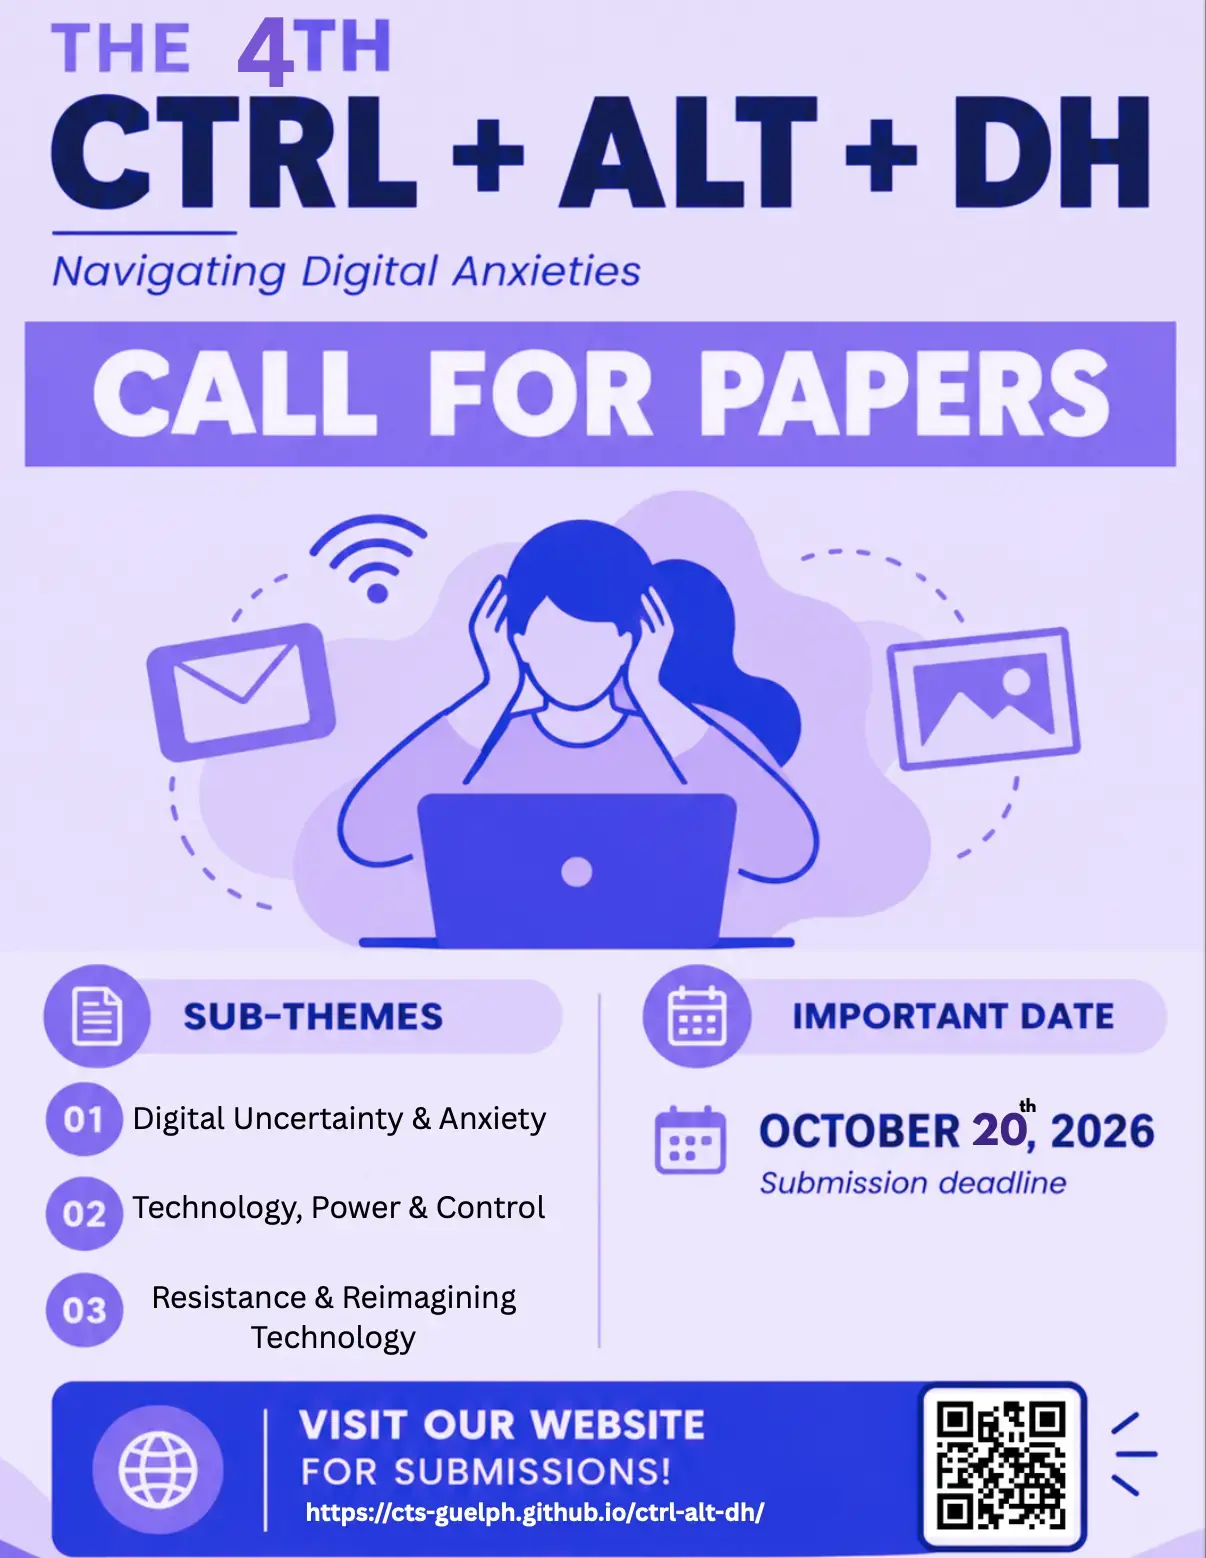
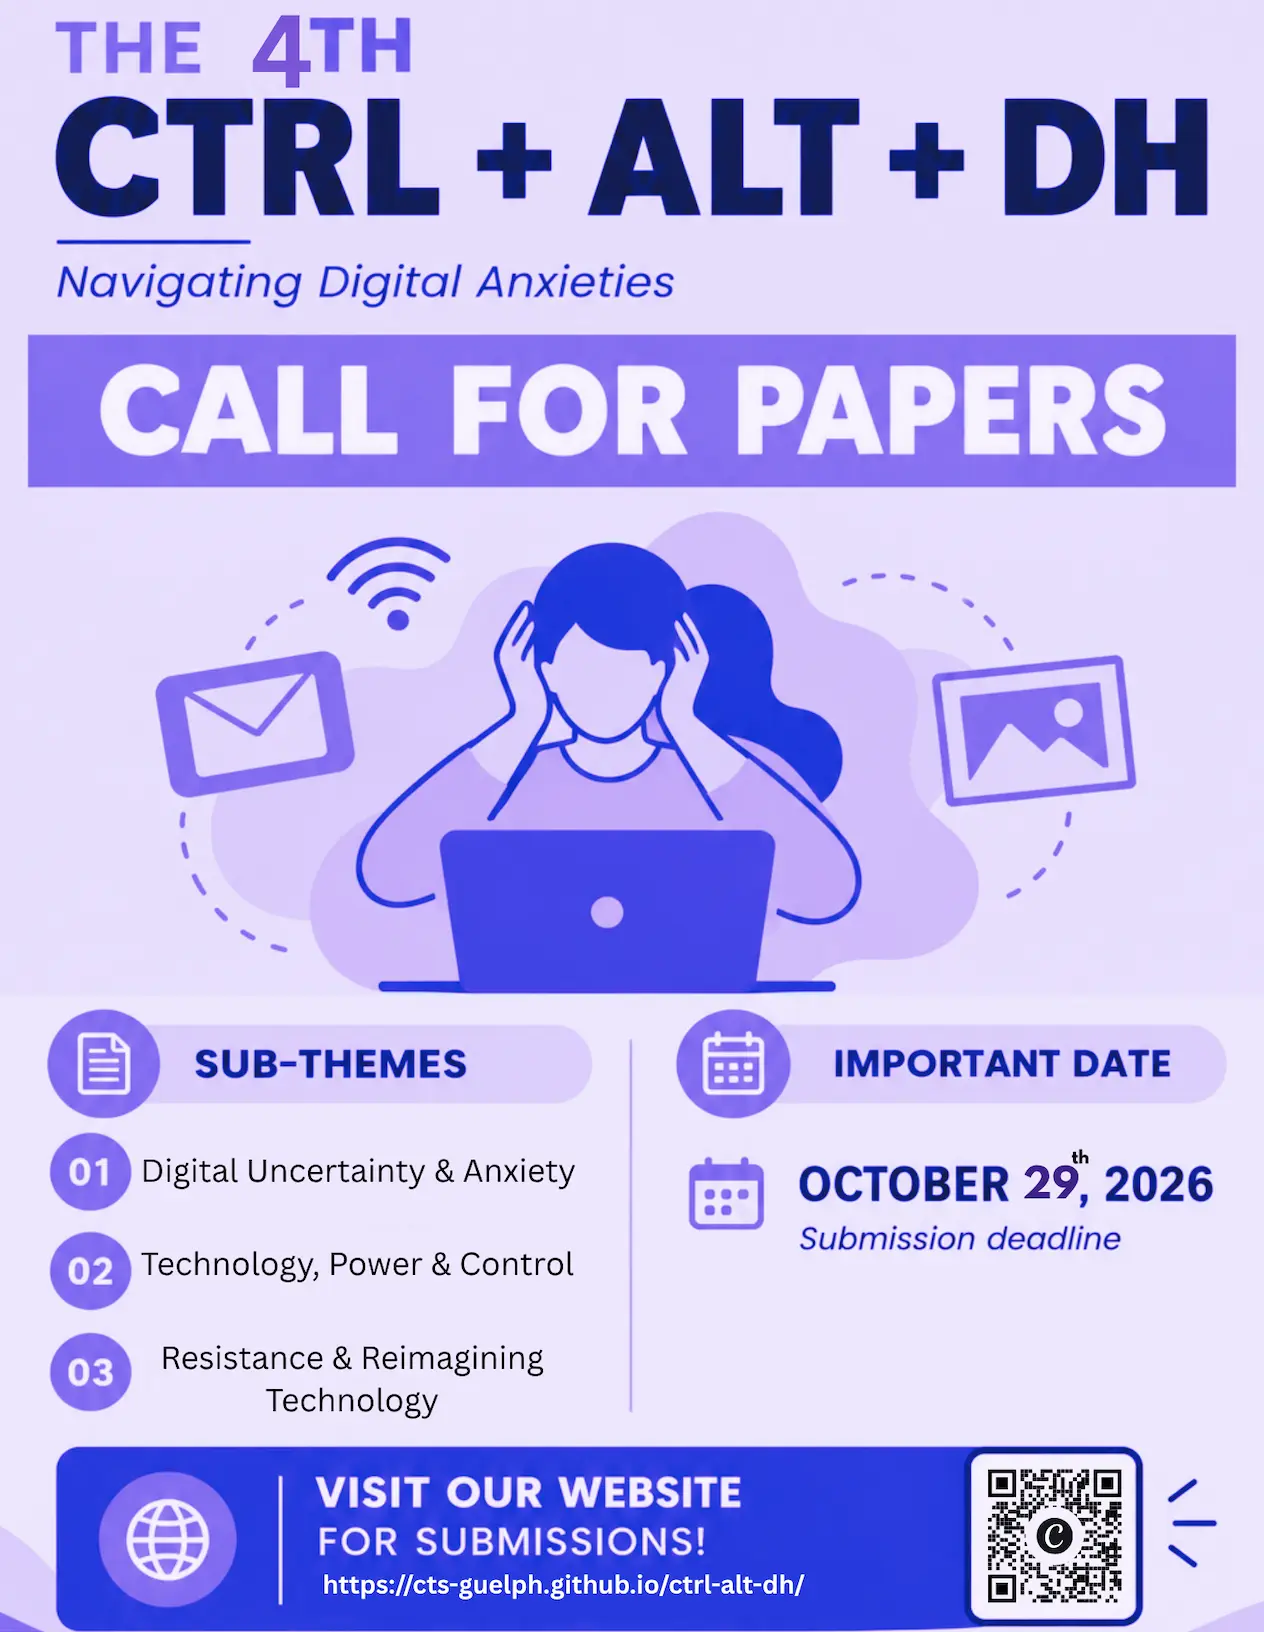
Added new poster with updated date and qr code

diff --git a/content/pages/cfp-2026.md b/content/pages/cfp-2026.md
@@ -7,7 +7,7 @@ Summary: CTRL+ALT+DH is excited to announce a Call for Submissions for the Fall 
 
 ## CTRL+ALT+DH Issue 4: *Navigating Digital Anxieties*
 
-### Submission deadline: ~~October 20th, 2026~~ Extended to October 29th, 2026
+### Submission deadline: Extended to October 29th, 2026
 
 To view previous issues and read more about who we are, please visit this page: **[Welcome to CTRL-ALT-DH](https://cts-guelph.github.io/ctrl-alt-dh/)**
 
@@ -92,7 +92,7 @@ The use of AI tools is permissible if the author provides transparency about the
 
 ### Timeline
 
-Submissions are due ~~October 20, 2026~~ October 29th, 2026. This year’s issue is expected to be published in early December 2026.
+Submissions are due October 29th, 2026. This year’s issue is expected to be published in early December 2026.
 
 If your submission is selected for this year’s issue, you will be contacted before publication with editorial feedback and information about the next steps.
 
